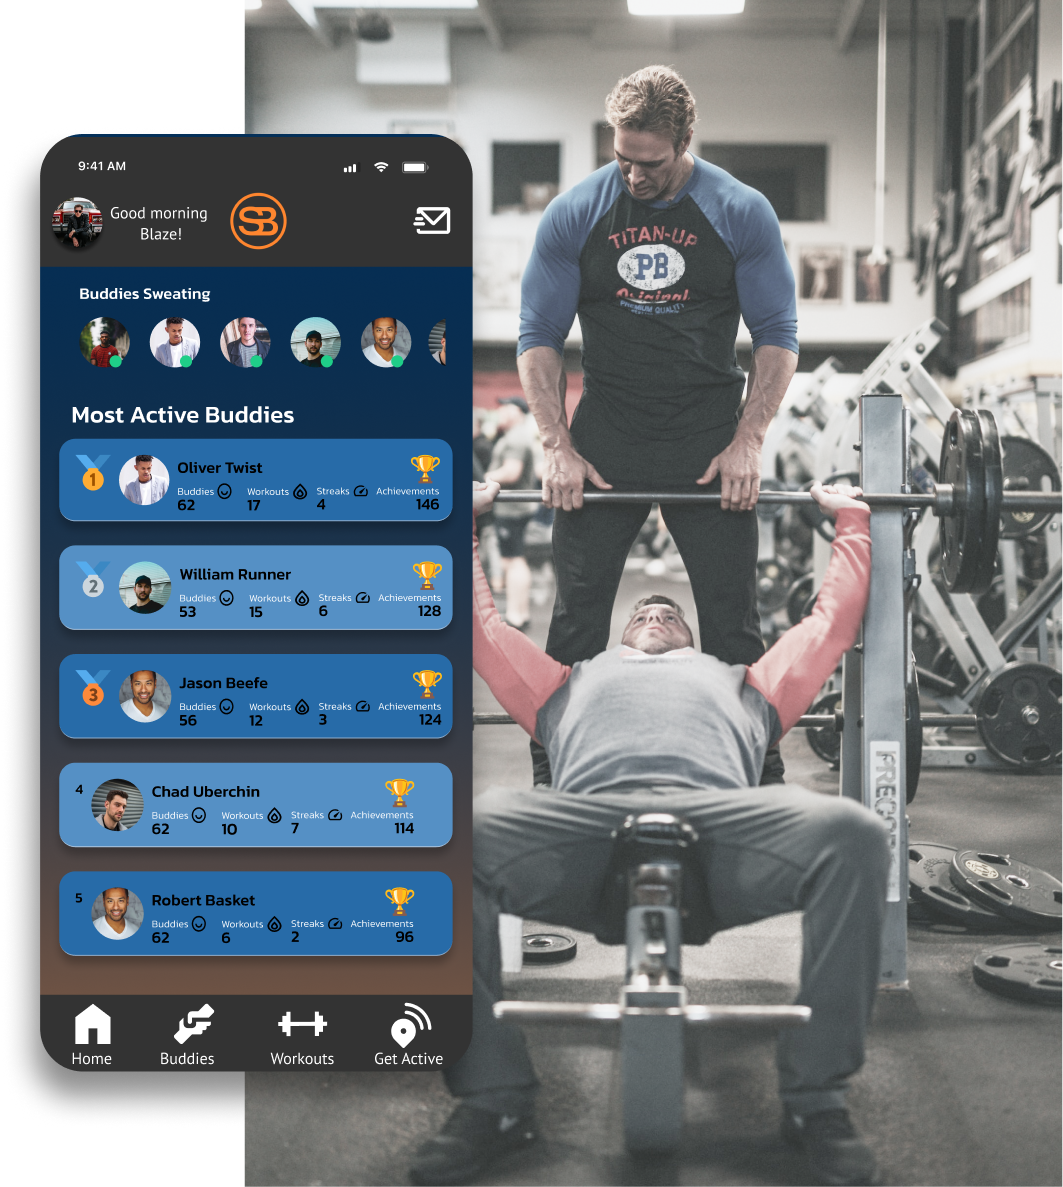
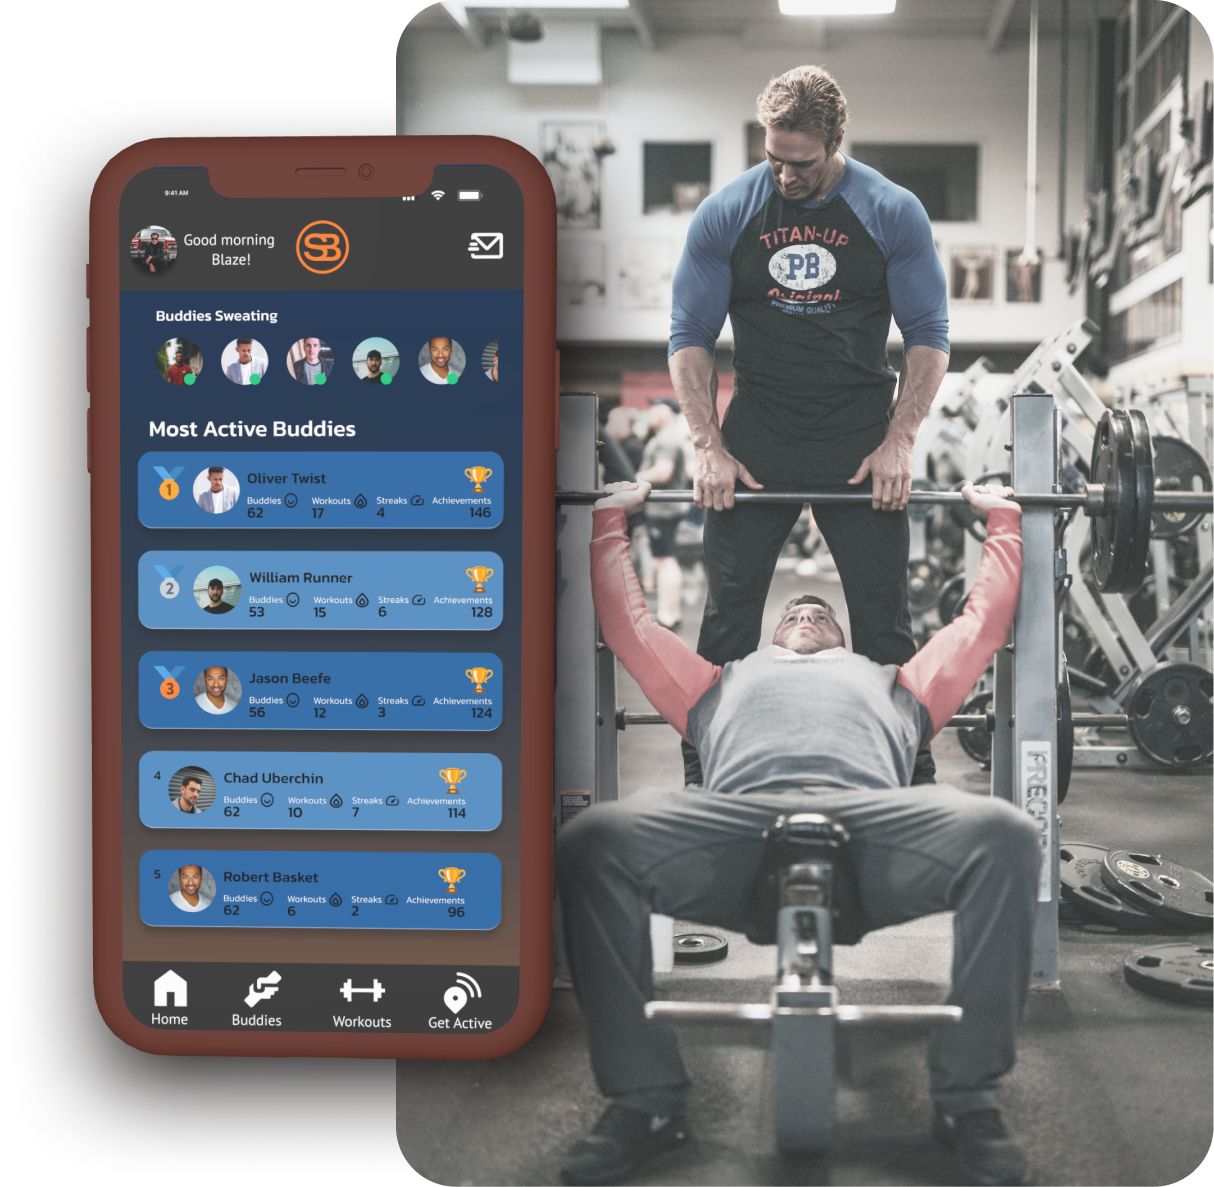
poooosh

diff --git a/index.html b/index.html
@@ -193,7 +193,7 @@
                 <div class="col-md-7" data-aos="fade-left">
                     
 
-                    <img src="assets/images/SB-BENCH-BROS.png">
+                    <img src="assets/images/SB-BENCH-BROS2.png">
         
                 </div>
            
